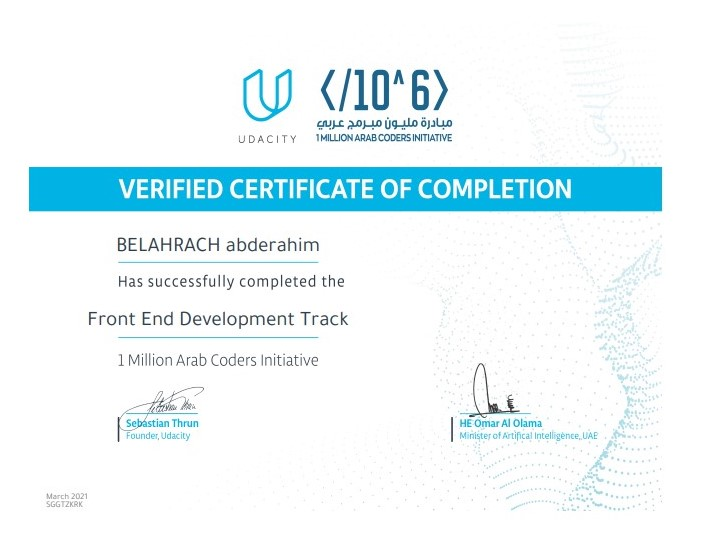
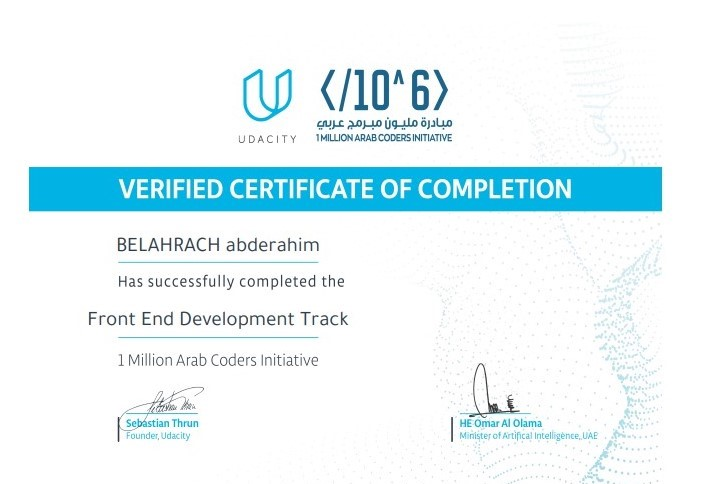
certification section update

diff --git a/Css/style.css b/Css/style.css
@@ -1294,16 +1294,10 @@
     width: 100%;
     scale: 1.2;
 }
-.container .studiesAndCertificationsSection .certificationsSection .certificateContainer .certificatDiv .imgCertificat img{
-    width: 100%;
-    scale: 1.2;
-}
-
-
 
 .container .studiesAndCertificationsSection .certificationsSection .certificateContainer .certificatDiv .certificatDescription{
     position: absolute;
-    background-color: var(--mainColor);
+    background-color: white;
     bottom: 0%;
     transform: translateY(100%);
     border-top: 3px solid black;
@@ -1325,7 +1319,7 @@
 
 }
 .container .studiesAndCertificationsSection .certificationsSection .showCertificat {
-    height: 79.6vh;
+    height: 100%;
     width: 100%;
     background-color: white;
     position: absolute;
@@ -1783,7 +1777,7 @@
 
 
     .container .studiesAndCertificationsSection .certificationsSection .certificateContainer{
-        padding-left: 100px;
+        padding: 10px 60px;
     }
 
     .container .contactSection .getInTouchContainer{
@@ -1803,6 +1797,22 @@
     }
     .container .contactSection .contactContainer .divContainer .theDiv{
         font-size: 12px;
+    }
+
+    .container .bioSection .navigationDiv .arrow .fa-regular{
+        font-size: 35px;
+    }
+    .container .aboutMeSection .navigationDiv .arrow .fa-regular{
+        font-size: 35px;
+    }
+    .container .projectsAndSkillsSection .navigationDiv .arrow .fa-regular{
+        font-size: 35px;
+    }
+    .container .studiesAndCertificationsSection .navigationDiv .arrow .fa-regular{
+        font-size: 35px;
+    }
+    .container .contactSection .navigationDiv .arrow .fa-regular{
+        font-size: 35px;
     }
     
 }

diff --git a/js/app.js b/js/app.js
@@ -173,7 +173,7 @@ for (let i = 0; i <  myprojectInfoHyperLinks.length; i++){
                 let myVid = myprojectInfoHyperLinks[i].parentElement.previousElementSibling.querySelector("video");
                 myVid.remove();
             }
-            if (target === "Images/Js-Algo-DataStructureCopy.jpg") {
+            if ( target === "Images/Js-Algo-DataStructureCopy.jpg") {
                 myprojectInfoHyperLinks[i].parentElement.previousElementSibling.firstElementChild.classList.remove("imgAnimate");
                 let myVid = myprojectInfoHyperLinks[i].parentElement.previousElementSibling.querySelector("video");
                 myVid.remove();

diff --git a/index.html b/index.html
@@ -776,7 +776,7 @@
                     <div class="cc certificat2">
                         <div class="certificatDiv">
                             <div class="imgCertificat">
-                                <img src="Images/Js-Algo-DataStructureCopy.jpg" alt="">
+                                <img src="Images/front-end-track-udacity.jpg" alt="">
                             </div>
                             <div class="certificatDescription">
                                 <p class="headP">FreeCodeCamp Certificat</p>
